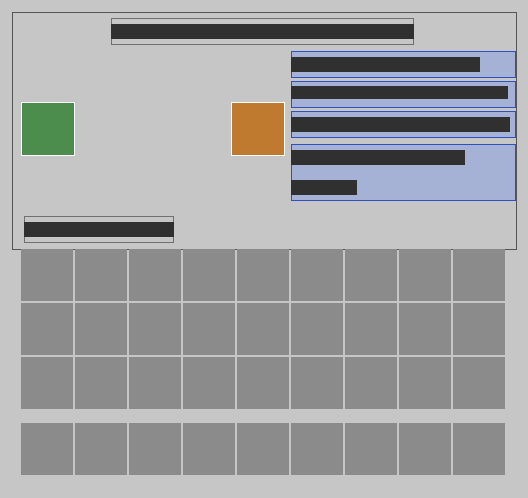
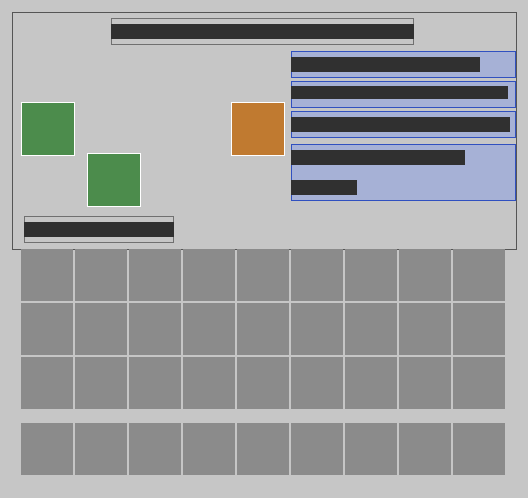
IMP4-01 O-030 [5-16]: magnesium getter, option A (A agreed) - sealing station gets a getter slot; with a getter the chamber only needs 1 Pa to seal (0.1 Pa without, unchanged), one used per tube; sealing station howto; GUI backgrounds for sealing station, conveyor drive and OHT drive; GameTest gette

Changed region(s): [[0.1515, 0.3012, 0.2727, 0.4217]]

diff --git a/src/main/java/com/taku3/semiconductorlab/block/SealingStationBlockEntity.java b/src/main/java/com/taku3/semiconductorlab/block/SealingStationBlockEntity.java
@@ -21,6 +21,8 @@ import net.minecraft.world.level.block.state.BlockState;
  * 1本封じるたびに、次の管を付け替えるときの空気が入り、容器の圧力が少し上がる（大気圧との差の {@link #VENT_FRACTION}）。
  * 閾値は初期の軟真空管（オーディオン 1906）の 0.1Pa（約 10⁻³ Torr）。手押しポンプ（1kPa まで）では届かず、
  * シュプレンゲル水銀ポンプ[5-15]（0.05Pa まで）が要る。高真空管（10⁻⁴Pa、ラングミュア 1913）は拡散ポンプ[5-05]で。
+ * ゲッター [5-16]（IMP4-01、O-030 案A、A の同意あり）：下のスロットにマグネシウムのゲッターを入れると、封じた後にゲッターが残りのガスを吸うので、
+ * 容器が {@link #GETTER_SEAL_MAX_PA}（1Pa ⚠）まででも封じられる（1本ごとにゲッター1個を使う）。ゲッターが無いときは今までどおり。
  */
 public class SealingStationBlockEntity extends ConsumerBlockEntity {
     public static final double WATTS = 500;
@@ -29,7 +31,9 @@ public class SealingStationBlockEntity extends ConsumerBlockEntity {
     public static final double SEAL_MAX_PA = 0.1;
     /** 1本封じるごとに戻る空気の割合 */
     public static final double VENT_FRACTION = 0.05;
-    public static final int SLOT_IN = 0, SLOT_OUT = 1, SLOT_COUNT = 2;
+    /** ゲッター [5-16] があるときの上限（Pa ⚠ ゲームの値）：封じた後にゲッターが残りのガスを吸い、中は 1/10 になる */
+    public static final double GETTER_SEAL_MAX_PA = 1.0;
+    public static final int SLOT_IN = 0, SLOT_OUT = 1, SLOT_GETTER = 2, SLOT_COUNT = 3;
     /** GUI へ送る追加の数値：隣の容器の圧力（{@link #encodePa}） */
     public static final int DATA_PRESSURE = ConsumerBlockEntity.DATA_COUNT, MENU_DATA_COUNT = ConsumerBlockEntity.DATA_COUNT + 1;
 
@@ -46,6 +50,7 @@ public class SealingStationBlockEntity extends ConsumerBlockEntity {
     public static final MachineLayout LAYOUT = MachineLayout.builder(MENU_DATA_COUNT)
             .in(SLOT_IN, 8, 35, s -> !sealedProduct(s).isEmpty())
             .out(SLOT_OUT, 78, 35)
+            .in(SLOT_GETTER, 30, 52, s -> s.is(Vacuum.MAGNESIUM_GETTER))
             .right("power", 17, 1, "gui.semiconductor-lab.sealing_station.power").samples("0.5 kW")
             .right("pressure", 27, 1, "gui.semiconductor-lab.sealing_station.pressure").samples("101 kPa").fit()
             .right("target", 37, 1, "gui.semiconductor-lab.sealing_station.target").samples("0.1 Pa")
@@ -81,16 +86,22 @@ public class SealingStationBlockEntity extends ConsumerBlockEntity {
         return ItemStack.EMPTY;
     }
 
+    /** ゲッターがあるか */
+    public static boolean hasGetter(ItemStack s) { return s.is(Vacuum.MAGNESIUM_GETTER); }
+    /** 封じてよい容器の圧力の上限（ゲッターがあれば 1Pa、なければ 0.1Pa） */
+    public static double sealMaxPa(ItemStack getter) { return hasGetter(getter) ? GETTER_SEAL_MAX_PA : SEAL_MAX_PA; }
+
     @Override protected boolean canWork() {
         ItemStack out = sealedProduct(container.getItem(SLOT_IN));
         if (out.isEmpty()) return false;
         VacuumChamberBlockEntity c = chamber();
-        return c != null && c.getPressure() <= SEAL_MAX_PA && canMerge(container.getItem(SLOT_OUT), out);
+        return c != null && c.getPressure() <= sealMaxPa(container.getItem(SLOT_GETTER)) && canMerge(container.getItem(SLOT_OUT), out);
     }
 
     @Override protected void finishWork() {
         ItemStack out = sealedProduct(container.getItem(SLOT_IN));
         container.getItem(SLOT_IN).shrink(1);
+        if (hasGetter(container.getItem(SLOT_GETTER))) container.getItem(SLOT_GETTER).shrink(1);   // ゲッターは管の中に残る（銀色の膜）
         merge(SLOT_OUT, out);
         container.setChanged();
         VacuumChamberBlockEntity c = chamber();

diff --git a/src/gametest/java/com/taku3/semiconductorlab/gametest/VacuumTests.java b/src/gametest/java/com/taku3/semiconductorlab/gametest/VacuumTests.java
@@ -411,6 +411,32 @@ public class VacuumTests extends LabTestBase {
         h.succeed();
     }
 
+    /** [5-16] ゲッター（IMP4-01、O-030 案A、A の同意あり）：容器 0.5Pa では、ゲッターなしは封じない・ゲッターありは封じてゲッターを1個使う */
+    @GameTest
+    public void getterSeal(GameTestHelper h) {
+        floor(h, 7);
+        BlockPos cp = p(1, 1, 1), sp = p(2, 1, 1);
+        h.setBlock(cp, Vacuum.VACUUM_CHAMBER.block);
+        h.setBlock(sp, Vacuum.SEALING_STATION.block);
+        VacuumChamberBlockEntity c = h.getBlockEntity(cp, VacuumChamberBlockEntity.class);
+        SealingStationBlockEntity be = h.getBlockEntity(sp, SealingStationBlockEntity.class);
+        var box = be.getContainer();
+        int T = SealingStationBlockEntity.TICKS;
+        long feed = EnergyStorage.wattsToJoulesPerTick(SealingStationBlockEntity.WATTS);
+        box.setItem(SealingStationBlockEntity.SLOT_IN, new ItemStack(Vacuum.VACUUM_TUBE_ASSEMBLY, 2));
+        c.setPressure(0.5);
+        tickConsumer(h, sp, be, T + 20, feed);
+        h.assertTrue(box.getItem(SealingStationBlockEntity.SLOT_OUT).isEmpty(), "0.5 Pa without a getter: not sealed");
+        box.setItem(SealingStationBlockEntity.SLOT_GETTER, new ItemStack(Vacuum.MAGNESIUM_GETTER, 3));
+        c.setPressure(0.5);
+        tickConsumer(h, sp, be, T, feed);
+        h.assertTrue(box.getItem(SealingStationBlockEntity.SLOT_OUT).is(Vacuum.VACUUM_TUBE), "0.5 Pa with a getter: sealed");
+        h.assertValueEqual(box.getItem(SealingStationBlockEntity.SLOT_GETTER).getCount(), 2, "one getter used");
+        h.assertTrue(SealingStationBlockEntity.sealMaxPa(ItemStack.EMPTY) == SealingStationBlockEntity.SEAL_MAX_PA, "no getter: same as before (0.1 Pa)");
+        h.assertTrue(recipeUses(h, "magnesium_getter", Metallurgy.MAGNESIUM), "magnesium getter");
+        h.succeed();
+    }
+
     static void machineRecipes(com.google.gson.JsonArray a) {
         rec(a, Vacuum.SEALING_STATION.block, "真空管の封止", L(io(Vacuum.VACUUM_TUBE_ASSEMBLY, 1), kept(cond(io("隣の真空容器", 1), SealingStationBlockEntity.SEAL_MAX_PA + " Pa 以下"))),
             L(io(Vacuum.VACUUM_TUBE, 1)), SealingStationBlockEntity.WATTS, SealingStationBlockEntity.TICKS / 20.0, "封じるたびに容器へ空気がもどる");

diff --git a/src/client/java/com/taku3/semiconductorlab/client/SealingStationScreen.java b/src/client/java/com/taku3/semiconductorlab/client/SealingStationScreen.java
@@ -29,15 +29,16 @@ public class SealingStationScreen extends MachineScreen {
     @Override
     protected Component text(String id) {
         double pa = SealingStationBlockEntity.decodePa(menu.get(SealingStationBlockEntity.DATA_PRESSURE));
+        double max = SealingStationBlockEntity.sealMaxPa(menu.machineItem(SealingStationBlockEntity.SLOT_GETTER));   // ゲッター [5-16] があれば 1Pa
         return switch (id) {
             case "power" -> Component.translatable(K + "power", String.format("%.1f kW", menu.getKw()));
             case "pressure" -> Component.translatable(K + "pressure", pa < 0 ? "-" : VacuumChamberBlockEntity.formatPa(pa));
-            case "target" -> Component.translatable(K + "target", VacuumChamberBlockEntity.formatPa(SealingStationBlockEntity.SEAL_MAX_PA));
+            case "target" -> Component.translatable(K + "target", VacuumChamberBlockEntity.formatPa(max));
             case "hint" -> {
                 String hint;
                 if (SealingStationBlockEntity.sealedProduct(menu.getSlot(SealingStationBlockEntity.SLOT_IN).getItem()).isEmpty()) hint = "need_input";
                 else if (pa < 0) hint = "need_chamber";
-                else if (pa > SealingStationBlockEntity.SEAL_MAX_PA) hint = "need_vacuum";
+                else if (pa > max) hint = "need_vacuum";
                 else if (!menu.isReady()) hint = "output_full";
                 else if (menu.getKw() <= 0) hint = "need_power";
                 else hint = "sealing";

diff --git a/src/main/java/com/taku3/semiconductorlab/content/Vacuum.java b/src/main/java/com/taku3/semiconductorlab/content/Vacuum.java
@@ -26,6 +26,8 @@ public final class Vacuum {
     private Vacuum() {}
 
     // ===== アイテム =====
+    // [5-16] ゲッター（マグネシウム）（IMP4-01、S-009）
+    public static final Item MAGNESIUM_GETTER      = Reg.item("magnesium_getter");
     // --- 真空（[5-01] ポンプ・[5-10] 真空計）---
     public static final Item MERCURY_VACUUM_GAUGE  = Reg.item("mercury_vacuum_gauge", MercuryVacuumGaugeItem::new, new Item.Properties().stacksTo(1));
     // --- 真空管（[5-02] ド・フォレストの三極管 1906）---

diff --git a/docs/TECH_TREE.md b/docs/TECH_TREE.md
@@ -446,7 +446,7 @@ graph LR
 ### [5-10] 真空計 ✅（水銀 U字管の段階のみ）  **実装（2026-10 タスク02）**: mercury_vacuum_gauge（板ガラス3＋棒3＋水銀）。真空容器に右クリックで「水銀柱の差 X mm（＝Y Pa）」をチャットに表示、1mm（133Pa）未満は読めない。前提 [5-03] は ❓ のまま（タスク指示により水銀柱で直接実装）。マクラウド・ピラニ・電離真空計は未 ／ CHEMISTRY #71〜72 ／ テスト: mercury_gauge ／ 元の記述→  年: 1874 ／ 前提: [5-03]（較正の基準）, [1-28]W線 or 白金線[1-20], [4-03]✅, [5-02]（電離真空計は真空管と同じ構造）／ 本物: 1874 マクラウド真空計（水銀で気体を圧縮して測る、基準器）。1906 マルチェロ・ピラニ：熱した細線の熱が気体に奪われる量で圧力を測る（中真空）。1916 バックリーの熱陰極電離真空計（電子で気体をイオン化し電流で測る、高真空）。1950 ベアード・アルパート型（超高真空）／ 入力/出力: 計器アイテム（真空容器に付けると Pa を表示）／ へえ①: 何もない空間の「何もなさ」を、電線の冷え方で測る
 ### [5-11] 真空容器 ✅（ガラスのベルジャー段階のみ）  **実装（2026-10 タスク02）**: vacuum_chamber（ガラス5＋鉄3、BE が pressure(Pa) を持つ、漏れ 1Pa/秒）。ガラスはバニラで近似（[2-14]未実装）。軟鋼・ステンレスの段は未 ／ 元の記述→  年: 1850 ／ 前提: [2-14]/[2-15]ガラス → [1-26]鋼（軟鋼）→ ステンレス（[1-37]Ni ❓・[1-40]Cr ❓）／ 本物: 19世紀はガラスのベルジャー（釣鐘形）。大型・高温は軟鋼の溶接容器。超高真空は表面から気体が出にくいステンレス（Fe-18Cr-8Ni）を焼き出し（ベーキング、約150〜250℃）して使う ／ 入力/出力: 段階で到達できる圧力の上限が変わる（ガラス：高真空まで・小型、鋼：中〜高真空、ステンレス：超高真空）／ 省略: 溶接部のリーク ／ へえ①: 壁の金属からも気体がしみ出してくるので、焼いて追い出す
 ### [5-12] 真空シール ❓  年: 1850（19世紀〜1937） ⚠ ／ 前提: グリース（獣脂[2-09]）→ ゴム[2-29]（Oリング）→ 金属ガスケット（銅）, ガラス-金属封止（白金[1-20] or 鉄ニッケル系）／ 本物: 初期（19世紀）はエメリーですり合わせたガラスのコック＋牛脂などのグリース（真空グリースは1901年に記載、1910年頃に市販）⚠。Oリングは1937 ニールス・クリステンセンが米国で特許出願（US 2,180,795、1939年登録）。超高真空は焼き出しに耐える銅ガスケットをナイフエッジで噛む（1960年代初め バリアンのコンフラット⚠）。真空管・電球の導線はガラスと熱膨張が合う白金線（高価）→ 1910年代のジュメット線（鉄ニッケル芯＋銅被覆）⚠ ／ 入力/出力: シール部品アイテム（容器の到達圧力の上限を決める）／ へえ①: 電球の根元の線は、ガラスと同じだけ伸び縮みする特別な金属
-### [5-16] ゲッター ❓  年: 1894（1893〜1895） ⚠ ／ 前提: [1-39]マグネシウム ❓ or [2-44]赤リン／ 用途: [5-02]（※以前は前提に[5-02]を書いていたが循環になるので用途へ）／ 本物: 封じきった真空管の中で、金属を蒸発させて残った気体を吸わせる。1894（伊特許。米特許 537,693 は1895）マリニャーニが電球の残りのガスを薬剤の蒸気で固める方法を発明。特許文の薬剤はヒ素・硫黄・ヨウ素で、実際の製造では赤リンを使った⚠。1920年代の真空管は主にマグネシウム（初めの短い間は一部で赤リン）、のちにバリウム⚠（⛔バニラになし→Mg で統一）。真空管の内側の銀色の膜がゲッター ／ 入力/出力: 真空管のレシピ材料 ／ へえ①: 真空管の銀色の部分は、残りの空気を食べた跡
+### [5-16] ゲッター ✅⚠  遊び方: 軽（封止台に入れると粗い真空でも封じられる） ／ **実装（2026-10 IMP4-01、O-030 案A 仮決定、封止台は A の同意あり）**: マグネシウムのゲッター magnesium_getter（作業台：マグネシウム＋鉄の粒 → 4）。封止台 [5-02] の下のスロット（SealingStationBlockEntity.SLOT_GETTER）に入れると、**ゲッターで封止の圧が 1 Pa まで ⚠**（ゲームの値。無いときは今までどおり 0.1Pa）、1本ごとに1個使う。バリウムは作らない。REFERENCES F67 ／ テスト: getter_seal ／ ID: magnesium_getter ／ 元の記述→  年: 1894（1893〜1895） ⚠ ／ 前提: [1-39]マグネシウム ❓ or [2-44]赤リン／ 用途: [5-02]（※以前は前提に[5-02]を書いていたが循環になるので用途へ）／ 本物: 封じきった真空管の中で、金属を蒸発させて残った気体を吸わせる。1894（伊特許。米特許 537,693 は1895）マリニャーニが電球の残りのガスを薬剤の蒸気で固める方法を発明。特許文の薬剤はヒ素・硫黄・ヨウ素で、実際の製造では赤リンを使った⚠。1920年代の真空管は主にマグネシウム（初めの短い間は一部で赤リン）、のちにバリウム⚠（⛔バニラになし→Mg で統一）。真空管の内側の銀色の膜がゲッター ／ 入力/出力: 真空管のレシピ材料 ／ へえ①: 真空管の銀色の部分は、残りの空気を食べた跡
 ### [5-02] 真空管 ✅（2026-10 タスク12：封止 0.1Pa＝軟真空、[5-15] シュプレンゲルが必要。仮は解消）  **実装（2026-10 タスク02）**: 組立品（ガラス2＋W線＋鉄ナゲット＋鉄）→ 新ブロック sealing_station（ConsumerBlockEntity、500W×10秒、隣の真空容器 ≤1.5kPa のときだけ）→ vacuum_tube（三極管）。封じるたびに容器へ空気がもどる（差の5%）。前提 [5-05]/[5-15]/[5-12]/[5-16]/[2-15] は ❓ のまま、タスク指示により近似＋placeholder（DECISIONS Q502-*）。CHEMISTRY #73〜76 ／ テスト: sealing_station_needs_vacuum ／ 元の記述→  年: 1904（1904〜1906） ／ 前提: [5-05]拡散ポンプ（高真空）or [5-15]（初期の軟真空管）, [1-28]W線, [2-15]ガラス, [5-12]ガラス-金属封止, [5-16]ゲッター ／ 本物: 1904 フレミング二極管（熱した陰極から電子が出るエジソン効果を整流に利用）、1906 ド・フォレストのオーディオン（三極管＝網状のグリッドで電流を制御、増幅できる）。1913頃 ラングミュアとアーノルドが「高真空でないと安定しない」と示した。1914 ラングミュアのトリウム入りW フィラメント（Th はモナザイト[1-19]から）⚠。1906年、リー・ド・フォレスト（1873〜1961）は真空管の中のフィラメントと板の間にジグザグの線（グリッド）を入れたオーディオン管を作った。小さな電気で大きな電流を変えられる三極管の始まりで、1912年ごろから声を大きくする増幅器として使われた ⚠（増幅器として使えるようにしたのは別の研究者たち。S-019 で追加。出典：ETHW「De Forest Audion」 https://ethw.org/De_Forest_Audion 、亜留間次郎さん（Arumaddilo）が作った Wikipedia 日本語版「オーディオン管」 https://ja.wikipedia.org/wiki/%E3%82%AA%E3%83%BC%E3%83%87%E3%82%A3%E3%82%AA%E3%83%B3%E7%AE%A1 ） ／ 入力/出力: ガラス+W線+電極+ゲッター → 二極管 → 三極管 ／ ゲーム: ROADMAP v0.2a #7。[4-09]発振器・[4-11]整流器の部品 ／ 省略: 酸化物陰極（BaO、⛔）／ へえ①: トランジスタの前は、ガラスの電球みたいな部品で増幅していた
 ### [5-13] 真空炉 → [3-16] を参照（ここにはノードを作らない）
 ### [5-14] 真空蒸着 ✅（銀）  遊び方: 重 ／ **実装（2026-10 IMP2-01）**: 真空蒸着装置 evaporator（W線×2＋鉄×2＋銅ケーブル＋ソーダ石灰ガラス、電気 300W、block/EvaporatorBlockEntity、画面 EvaporatorScreen）。いちばん古い方法＝熱した W 線で金属を蒸発。隣の真空容器が 0.01Pa 以下（平均自由行程 約0.66m＞ベルジャー。シュプレンゲル 0.05Pa では足りず、拡散ポンプ [5-05] が要る）のときだけ、クラウンガラス＋銀の粒[1-32] → 半透明鏡 half_silvered_mirror（20秒、1回ごとに容器を開けて空気が少し戻る）。組み合わせは EvaporatorBlockEntity.recipe に1行ずつ（Al[1-29]・Cr[1-40]・Mo[1-31] は前提ができたら）。ID: evaporator, half_silvered_mirror。CHEMISTRY V4〜V5、REFERENCES O16 ／ テスト: vacuum_evaporation ／ 元の記述→  年: 1912 ／ 前提: [5-05] or [5-06]（高真空）, [5-11], W線/ボート[1-28]（蒸発源の加熱）, 蒸着する金属（Al[1-29]・Ag[1-32]・Cr[1-40]・Mo[1-31]）／ 本物: 平均自由行程が容器より長いと、蒸発した金属原子がまっすぐ飛んで基板に付く。1912 ポールとプリングスハイムが真空で金属を蒸発させて鏡の膜に（これが最初ではない）、1930年代 ジョン・ストロングが望遠鏡の鏡にアルミ蒸着（1934年11月にウィルソン山のタワー望遠鏡の鏡と補助鏡、1935年3月に100インチ主鏡）。1960年代の IC の Al 配線もこれ ／ 入力/出力: 金属+基板+電力 → 薄膜付き基板（鏡[7-05]・配線・マスク[7-12]）／ 省略: 膜厚の制御（後で水晶振動子膜厚計[8-15]）、スパッタリング（後日別ノード）／ へえ①: ポテトチップスの袋の内側の銀色も真空蒸着のアルミ

diff --git a/docs/REFERENCES.md b/docs/REFERENCES.md
@@ -1391,6 +1391,20 @@
 
 ---
 
+## F67. 残りの空気を吸う金属（ゲッター）［5-16］
+**答え**：ポンプで引いても、封じた真空管の中には少し空気が残り、ガラスや金属からもガスが出てくる。そこで管の中にマグネシウムなどを入れておき、封じた後に熱して蒸発させると、ガラスの内側に膜を作りながら残りの酸素や窒素と結びついて固める（ゲッター）。1894年にイタリアのマリニャーニが電球で始め（特許の薬剤はヒ素・硫黄・ヨウ素、実際は赤リン ⚠）、1920年代の真空管はマグネシウム、のちにバリウムを使った。
+
+- へえ①：古い真空管のてっぺんの銀色の部分がゲッターの膜。白くにごると空気が入ってだめになった印。
+- へえ②：ゲッターのおかげで、ポンプの真空が少し粗くても管が長もちした。ゲームでは封止の圧が 1 Pa まで ⚠。
+- へえ③：今も、ブラウン管・真空断熱・粒子加速器でゲッターが使われている。
+- へえ④：「ゲッター」は英語で「つかまえる物」。
+
+確かさ：マリニャーニ 1894 ○（特許の年・薬剤に注意）／Mg・Ba の順 ○／ゲームの 1 Pa △（ゲームの値）
+ゲーム（2026-10-21 IMP4-01 で実装）：マグネシウムのゲッター（封止台の下のスロット、封止の圧 1 Pa まで ⚠）
+根拠：Wikipedia「Getter」https://en.wikipedia.org/wiki/Getter （英語）
+
+---
+
 # 電気（v0.2a）
 
 ---

diff --git a/docs/IMPL4_LOG.md b/docs/IMPL4_LOG.md
@@ -216,3 +216,4 @@ CHEMISTRY の行番号は F1〜（docs/chemistry/<幹>.md）。REFERENCES は第
   - [9-46] 人を感じるセンサー：案A（おすすめ）近くで動く人がいると隣の明かり（LED の明かりなど）を点ける（レッドストーンは使わない：明かりに直接）／案B 部品だけ（スマホ・自動ドアの材料）
 - ✅ O-030 [1-04] 銅の製錬＝案B（バニラの銅の原石に解説だけ、かまどの道は近似のまま）。GameTest copper_smelting、REFERENCES F65
 - ✅ O-030 [1-13] 亜鉛の蒸留＝案A（蒸留のかめ zinc_retort_charge → かまど → 亜鉛2、近道は残す）。GameTest zinc_retort、REFERENCES F66
+- ✅ O-030 [5-16] ゲッター＝案A（magnesium_getter、封止台の下のスロットで封止の圧 1Pa まで ⚠、A の同意あり。封止台の howto も）。GameTest getter_seal、REFERENCES F67

diff --git a/docs/TEST_QUEUE.md b/docs/TEST_QUEUE.md
@@ -764,6 +764,10 @@
 - [x] 自動✅ 海面 760mmHg・高いほど低い・レシピ `(mercury_barometer)`
 - [ ] 人間：山の上と谷で右クリックして値がちがう
 
+## [5-16] ゲッター（IMP4 O-030）
+- [x] 自動✅ 0.5Pa：ゲッターなしは封じない・ありは封じて1個使う `(getter_seal)`
+- [ ] 人間：封止台の下のスロット・画面の「目標」が 1Pa に変わる
+
 ## v0.2a #5 電解槽 [6-01]
 - [x] 自動✅ レシピが読み込まれる `(recipes_resolve)`、ツルハシで回収 `(block_drops, tool_requirements)`。 [ ] 人間：黒鉛を持つとレシピ本に出る
 - [ ] 人間：右クリックで GUI（タイトル「電解槽」、背景のスロット枠と実際のスロットがずれていない）

diff --git a/docs/tasks/ADVANCEMENT_REVIEW.md b/docs/tasks/ADVANCEMENT_REVIEW.md
@@ -1,6 +1,6 @@
 # 進捗の見直し（自動生成：python tools/check_advancements.py、O-038。手で直さない）
 
-- 進捗の数：1490（図鑑 926・レシピの解放 395）
+- 進捗の数：1491（図鑑 927・レシピの解放 395）
 - ① つながりの抜け：**0**、根が2つ以上の木：**0**
 - ② ちがう木で同じアイテムで開く進捗：**5**（同じ物でガイドとお題が開くのは、わざと＝読む所と遊ぶ所。下の一覧で確かめる）
 - ③ ガイドの巻の順と年の順のずれ：**0**

diff --git a/docs/tasks/HOWTO_GAPS.md b/docs/tasks/HOWTO_GAPS.md
@@ -1,6 +1,6 @@
 # わかりやすさの穴（自動生成：python tools/check_howto.py、S-026。手で直さない）
 
-- ①入手の道が無いアイテム：**0** / 925
+- ①入手の道が無いアイテム：**0** / 926
 - ②「?」の説明が無い機械（画面のある機械のうち、手書きの lang block.semiconductor-lab.<id>.howto も、自動のレシピの一覧＝machine_recipes も無い物）：**0** / 104
 - ③見取り図の無いマルチブロック：**0**
 
